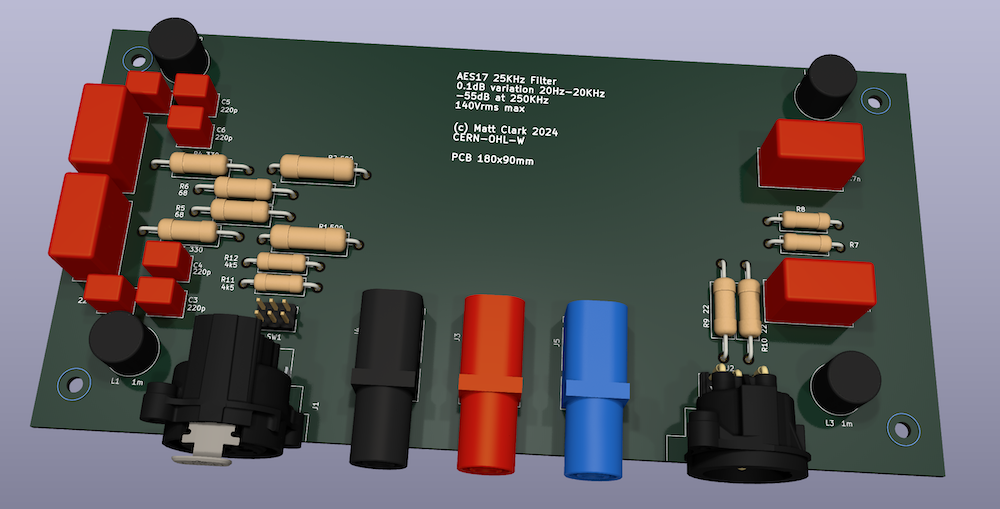
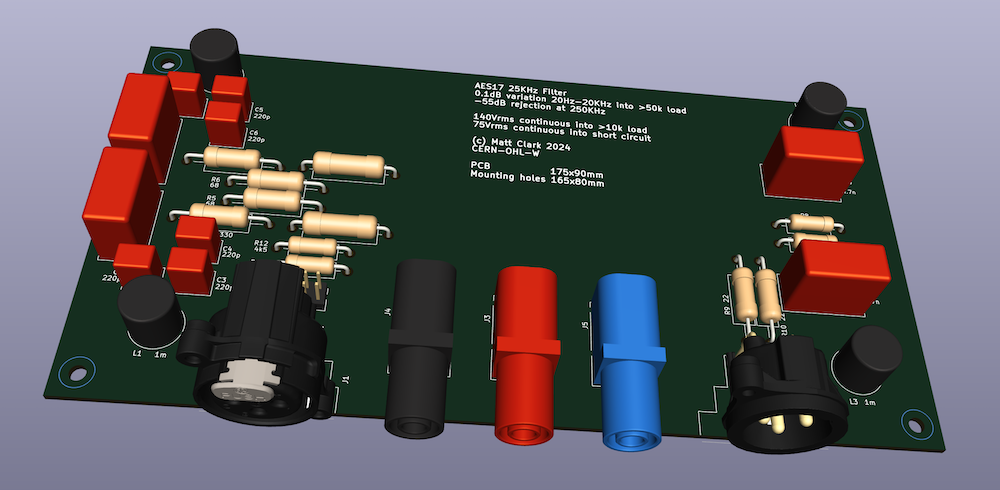
reduce baord width by 5mm, add recommended hammond case to readme, move mounting holes to be 5mm inboard, change spec text on board silkscreen

diff --git a/README.md b/README.md
@@ -11,7 +11,8 @@ Doing:
 
 Maybe:
 * Switch to shielded coilcraft inductors - the issue is these have 10% tolerance instead of 5%
-
+* Reduce Vrms goal to 60 - this is 900W into 4ohms - would allow use of smaller and cheaper parts
+* Create a version with most parts SMD - this would probably not be safe into a short circuit but could be orderable through JLC
 
 # Goals
 
@@ -46,7 +47,7 @@ A set of pad-down resistors allows for convenient high voltage measurements, by 
 
 The load impedance should be >50kOhm for best performance, but a 10kOhm load is still +-0.1dB 20Hz-20kHz, albeit with 0.4dBV of insertion loss.
 
-Pin 1 on each XLR socket is connected to a ground pour on the back of the PCB, as are the XLR chassis grounding pins.  This gave the best noise results for me in an all metal case.
+Pin 1 on each XLR socket is connected to a ground pour on layer 2 of the PCB, as are the XLR chassis grounding pins.  The board should be mounted in an all metal case.
 
 A brief short circuit, even with a high voltage applied, should be OK. The 500R/3W input resistors can take a steady state 75Vrms indefinitely ($75V^2/1000R=5.6W$), although the inductors will clearly saturate unless a reasonable load is connected to limit the current to 800mA. The 140Vrms requirement into more reasonable loads is met by the voltage ratings of the capacitors. In the case of C1 and C2 this provides a rated 500Vpp between signal rails.
 
@@ -56,7 +57,7 @@ You will need to add your own switch to the build for the voltage divider. If no
 
 If you want to use different components then you will need to ensure you model them from scratch, e.g. if changing the inductors you will need to model the changed series resistance.  
 
-Case choice is up to you, as cost and availability varies a lot by location.  The omnigraffle diagram I used as a front panel drilling guide is included as a starting point.
+Case choice is up to you, as cost and availability varies a lot by location, but it must be all metal with all parts connected electrically.
 
 # BOM
 
